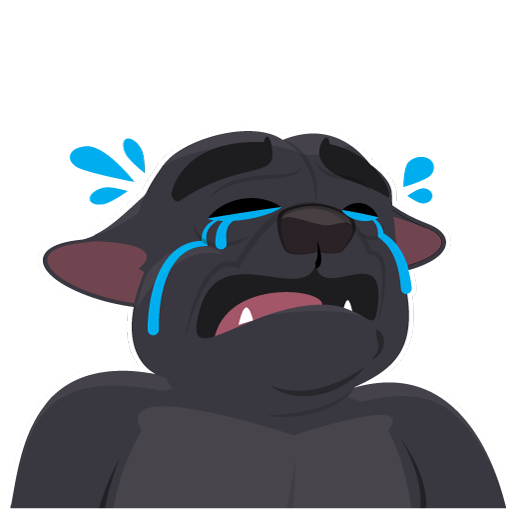
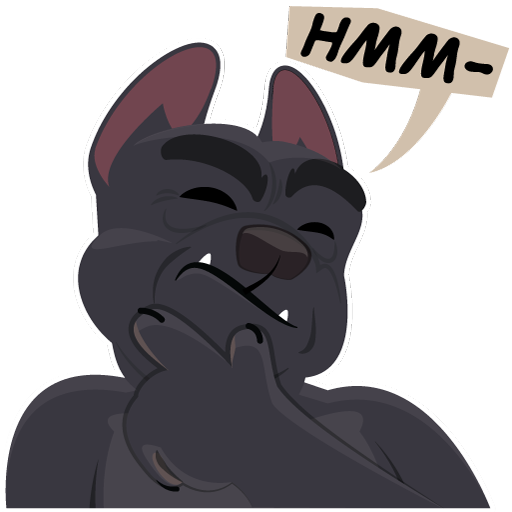
updating

diff --git a/data.js b/data.js
@@ -1,1 +1,1 @@
-{"project": [null,null,[[0,false,true,true,true,true,true,true,true,false],[1,true,false,false,false,false,false,false,false,false]],[["t0",0,false,[],0,0,null,[["Default",5,false,1,0,false,610191307077012,[["images/bd-sheet0.png",155,0,0,250,250,1,0.5,0.5,[],[],1]]]],[],false,false,607439882682930,[],null],["t1",0,false,[],0,0,null,[["Default",5,false,1,0,false,331552217370939,[["images/uianchor-sheet0.png",155,0,0,250,250,1,0,0,[["Imagepoint 1",0.5,0.4359999895095825],["Imagepoint 2",0,1]],[],1]]]],[],false,false,136455658636064,[],null],["t2",0,false,[],1,0,null,[["Default",5,false,1,0,false,177227347367945,[["images/portrait-sheet0.png",568904,1,1,512,512,1,0.5,0.5,[],[-0.3125,-0.3125,0,-0.2519530057907105,0.1972659826278687,-0.197266012430191,0.2011719942092896,0,0.4980469942092896,0.4980469942092896,-0.498046875,0.4980469942092896,-0.3105469942092896,0],0],["images/portrait-sheet0.png",568904,1,1,512,512,1,0.5,0.5,[],[-0.3125,-0.3125,0,-0.2519530057907105,0.1972659826278687,-0.197266012430191,0.2011719942092896,0,0.4980469942092896,0.4980469942092896,-0.498046875,0.4980469942092896,-0.3105469942092896,0],0],["images/portrait-sheet0.png",568904,515,1,512,512,1,0.5,0.5,[],[-0.3125,-0.3125,0,-0.2519530057907105,0.1972659826278687,-0.197266012430191,0.2011719942092896,0,0.4980469942092896,0.4980469942092896,-0.498046875,0.4980469942092896,-0.3105469942092896,0],0],["images/portrait-sheet0.png",568904,1029,1,512,512,1,0.5,0.5,[],[-0.3125,-0.3125,0,-0.2519530057907105,0.1972659826278687,-0.197266012430191,0.2011719942092896,0,0.4980469942092896,0.4980469942092896,-0.498046875,0.4980469942092896,-0.3105469942092896,0],0],["images/portrait-sheet0.png",568904,1,515,512,512,1,0.5,0.5,[],[-0.3125,-0.3125,0,-0.2519530057907105,0.1972659826278687,-0.197266012430191,0.2011719942092896,0,0.4980469942092896,0.4980469942092896,-0.498046875,0.4980469942092896,-0.3105469942092896,0],0],["images/portrait-sheet0.png",568904,515,515,512,512,1,0.5,0.5,[],[-0.3125,-0.3125,0,-0.2519530057907105,0.1972659826278687,-0.197266012430191,0.2011719942092896,0,0.4980469942092896,0.4980469942092896,-0.498046875,0.4980469942092896,-0.3105469942092896,0],0],["images/portrait-sheet0.png",568904,1029,515,512,512,1,0.5,0.5,[],[-0.3125,-0.3125,0,-0.2519530057907105,0.1972659826278687,-0.197266012430191,0.2011719942092896,0,0.4980469942092896,0.4980469942092896,-0.498046875,0.4980469942092896,-0.3105469942092896,0],0],["images/portrait-sheet0.png",568904,1,1029,512,512,1,0.5,0.5,[],[-0.2480469942092896,-0.2480469942092896,0,-0.2617189884185791,0.1425780057907105,-0.1425780057907105,0.2324219942092896,0,0.4863280057907105,0.4863280057907105,-0.490234375,0.4902340173721314,-0.4453125,0],0],["images/portrait-sheet0.png",568904,515,1029,512,512,1,0.5,0.5,[],[-0.2480469942092896,-0.2480469942092896,0,-0.2617189884185791,0.1425780057907105,-0.1425780057907105,0.2324219942092896,0,0.4863280057907105,0.4863280057907105,-0.490234375,0.4902340173721314,-0.4453125,0],0],["images/portrait-sheet0.png",568904,1029,1029,512,512,1,0.5,0.5,[],[-0.2480469942092896,-0.2480469942092896,0,-0.2617189884185791,0.1425780057907105,-0.1425780057907105,0.2324219942092896,0,0.4863280057907105,0.4863280057907105,-0.490234375,0.4902340173721314,-0.4453125,0],0],["images/portrait-sheet1.png",57447,0,0,512,512,1,0.5,0.5,[],[-0.2480469942092896,-0.2480469942092896,0,-0.2617189884185791,0.1425780057907105,-0.1425780057907105,0.2324219942092896,0,0.4863280057907105,0.4863280057907105,-0.490234375,0.4902340173721314,-0.4453125,0],0],["images/portrait-sheet2.png",44817,0,0,512,512,1,0.5,0.5,[],[-0.2480469942092896,-0.2480469942092896,0,-0.2617189884185791,0.1425780057907105,-0.1425780057907105,0.2324219942092896,0,0.4863280057907105,0.4863280057907105,-0.490234375,0.4902340173721314,-0.4453125,0],0]]]],[["Fade",2,628882595319511]],false,false,704079017234861,[],null],["t3",0,false,[],0,0,null,[["Default",5,false,1,0,false,364712639903851,[["images/uianchor2-sheet0.png",155,0,0,250,250,1,0,0,[["Imagepoint 1",0.5,0]],[],1]]]],[],false,false,466833588075506,[],null],["t4",0,false,[],0,0,null,[["Default",5,false,1,0,false,962074919451219,[["images/uianchor3-sheet0.png",155,0,0,250,250,1,0.5,0,[["Imagepoint 1",0.5,0]],[],1]]]],[],false,false,637335594727856,[],null],["t5",0,false,[896240934546725],0,0,null,[["Default",5,false,1,0,false,161025835850227,[["images/portrait-sheet0.png",568904,1,1,512,512,1,0.5,0.5,[],[-0.3125,-0.3125,0,-0.2519530057907105,0.1972659826278687,-0.197266012430191,0.2011719942092896,0,0.4980469942092896,0.4980469942092896,-0.498046875,0.4980469942092896,-0.3105469942092896,0],0],["images/portrait-sheet0.png",568904,1,1,512,512,1,0.5,0.5,[],[-0.3125,-0.3125,0,-0.2519530057907105,0.1972659826278687,-0.197266012430191,0.2011719942092896,0,0.4980469942092896,0.4980469942092896,-0.498046875,0.4980469942092896,-0.3105469942092896,0],0],["images/portrait-sheet0.png",568904,515,1,512,512,1,0.5,0.5,[],[-0.3125,-0.3125,0,-0.2519530057907105,0.1972659826278687,-0.197266012430191,0.2011719942092896,0,0.4980469942092896,0.4980469942092896,-0.498046875,0.4980469942092896,-0.3105469942092896,0],0],["images/portrait-sheet0.png",568904,1029,1,512,512,1,0.5,0.5,[],[-0.3125,-0.3125,0,-0.2519530057907105,0.1972659826278687,-0.197266012430191,0.2011719942092896,0,0.4980469942092896,0.4980469942092896,-0.498046875,0.4980469942092896,-0.3105469942092896,0],0],["images/portrait-sheet0.png",568904,1,515,512,512,1,0.5,0.5,[],[-0.3125,-0.3125,0,-0.2519530057907105,0.1972659826278687,-0.197266012430191,0.2011719942092896,0,0.4980469942092896,0.4980469942092896,-0.498046875,0.4980469942092896,-0.3105469942092896,0],0],["images/portrait-sheet0.png",568904,515,515,512,512,1,0.5,0.5,[],[-0.3125,-0.3125,0,-0.2519530057907105,0.1972659826278687,-0.197266012430191,0.2011719942092896,0,0.4980469942092896,0.4980469942092896,-0.498046875,0.4980469942092896,-0.3105469942092896,0],0],["images/portrait-sheet0.png",568904,1029,515,512,512,1,0.5,0.5,[],[-0.3125,-0.3125,0,-0.2519530057907105,0.1972659826278687,-0.197266012430191,0.2011719942092896,0,0.4980469942092896,0.4980469942092896,-0.498046875,0.4980469942092896,-0.3105469942092896,0],0],["images/portrait-sheet0.png",568904,1,1029,512,512,1,0.5,0.5,[],[-0.2480469942092896,-0.2480469942092896,0,-0.2617189884185791,0.1425780057907105,-0.1425780057907105,0.2324219942092896,0,0.4863280057907105,0.4863280057907105,-0.490234375,0.4902340173721314,-0.4453125,0],0],["images/portrait-sheet0.png",568904,515,1029,512,512,1,0.5,0.5,[],[-0.2480469942092896,-0.2480469942092896,0,-0.2617189884185791,0.1425780057907105,-0.1425780057907105,0.2324219942092896,0,0.4863280057907105,0.4863280057907105,-0.490234375,0.4902340173721314,-0.4453125,0],0],["images/portrait-sheet0.png",568904,1029,1029,512,512,1,0.5,0.5,[],[-0.2480469942092896,-0.2480469942092896,0,-0.2617189884185791,0.1425780057907105,-0.1425780057907105,0.2324219942092896,0,0.4863280057907105,0.4863280057907105,-0.490234375,0.4902340173721314,-0.4453125,0],0],["images/portrait-sheet1.png",57447,0,0,512,512,1,0.5,0.5,[],[-0.2480469942092896,-0.2480469942092896,0,-0.2617189884185791,0.1425780057907105,-0.1425780057907105,0.2324219942092896,0,0.4863280057907105,0.4863280057907105,-0.490234375,0.4902340173721314,-0.4453125,0],0],["images/portrait-sheet2.png",44817,0,0,512,512,1,0.5,0.5,[],[-0.2480469942092896,-0.2480469942092896,0,-0.2617189884185791,0.1425780057907105,-0.1425780057907105,0.2324219942092896,0,0.4863280057907105,0.4863280057907105,-0.490234375,0.4902340173721314,-0.4453125,0],0]]]],[],false,false,754398503829293,[],null],["t6",0,false,[894861248078165],1,0,null,[["Default",5,false,1,0,false,823223339300037,[["images/uicursor-sheet0.png",98,0,0,64,64,1,0.5,0.5,[],[],1]]]],[["Fade",2,988903004482084]],false,false,658326794191089,[],null],["t7",1,false,[],0,0,null,null,[],false,false,941437527777681,[],null,[1]]],[],[["Layout 1",960,1280,false,"main",8873350371196689,[["bd",0,8722530541249526,true,[255,255,255],false,1,1,1,false,false,1,0,0,[[[239.5,321,0,491,646,0,0,1,0.5,0.5,0,0,[]],0,0,[],[],[0,"Default",0,1]]],[]],["invis",1,925002888922928,false,[255,255,255],true,1,1,1,false,false,1,0,0,[[[-7,-4,0,491,446,0,0,1,0,0,0,0,[]],1,1,[],[],[0,"Default",0,1]],[[-7,438,0,492,211,0,0,1,0,0,0,0,[]],3,3,[],[],[0,"Default",0,1]],[[242,546.5,0,430,143,0,0,1,0.5,0,0,0,[]],4,4,[],[],[0,"Default",0,1]]],[]],["ui",2,753174105871452,true,[255,255,255],true,1,1,1,false,false,1,0,0,[[[27,476,0,55.96427536010742,55.96427536010742,0,0,1,0.5,0.5,0,0,[]],5,5,[[0]],[],[0,"Default",0,1]],[[406,75,0,64,64,0,0,1,0.5,0.5,0,0,[]],6,6,[[0]],[[1,1.75,2.25,0.5,0]],[0,"Default",0,1]]],[]],["portrait",3,709641025609961,true,[255,255,255],true,1,1,1,false,false,1,0,0,[[[250,234,0,361.3308715820313,361.3308715820313,0,0,1,0.5,0.5,0,0,[]],2,2,[],[[1,1.75,2.25,0.5,0]],[0,"Default",0,1]]],[]]],[],[]]],[["main",[[2,"setup",false]]],["setup",[[0,null,false,null,541106952802135,[[-1,3,null,0,false,false,false,966799947983312,false]],[[0,4,null,499866119357388,false,[[0,[19,5]],[0,[19,6]]]],[0,7,null,535297945787673,false,[[0,[6,[19,5],[0,2]]],[0,[6,[19,6],[0,2]]]]],[1,4,null,129235748644494,false,[[0,[0,0]],[0,[0,0]]]],[1,7,null,742060842087618,false,[[0,[6,[19,5],[0,2]]],[0,[6,[19,5],[1,1.75]]]]],[2,8,null,592653318588020,false,[[4,1],[7,[0,1]]]],[2,7,null,509747050539062,false,[[0,[6,[20,1,9,false,null],[1,0.75]]],[0,[6,[20,1,9,false,null],[1,0.75]]]]],[3,8,null,359685072491997,false,[[4,1],[7,[0,2]]]],[3,7,null,220875140523626,false,[[0,[6,[19,5],[0,2]]],[0,[5,[6,[19,6],[0,2]],[20,3,10,false,null]]]]],[4,8,null,501150925826838,false,[[4,3],[7,[0,1]]]],[4,7,null,249089747631762,false,[[0,[5,[20,2,9,false,null],[0,64]]],[0,[5,[20,3,11,false,null],[20,5,11,false,null]]]]],[5,8,null,540914977195265,false,[[4,4],[7,[0,1]]]],[5,7,null,876629516600975,false,[[0,[0,64]],[0,[0,64]]]]]],[0,null,false,null,147573630573331,[[2,12,null,1,false,false,false,679433562048318,false]],[[2,13,null,433796941289999,false]]],[0,null,false,null,543381205895423,[[5,12,null,1,false,false,false,549743225344576,false]],[[5,13,null,402466579876076,false],[5,14,null,529901581419232,false,[[10,0],[7,[20,5,15,false,null]]]],[5,16,null,976467233322704,false,[[0,[21,5,false,null,0]]]]]],[0,null,false,null,782518315605374,[[5,17,null,0,false,false,false,109601180420512,false,[[10,0],[8,4],[7,[0,0]]]],[5,17,null,0,false,false,false,325858893542731,false,[[10,0],[8,2],[7,[0,5]]]]],[[5,4,null,106855771684154,false,[[0,[4,[5,[19,5],[7,[20,4,9,false,null],[0,2]]],[6,[7,[20,4,9,false,null],[0,3]],[5,[21,5,false,null,0],[0,1]]]]],[0,[20,4,10,false,null]]]]]],[0,null,false,null,349414282879000,[[5,17,null,0,false,false,false,634206761439577,false,[[10,0],[8,5],[7,[0,5]]]],[5,17,null,0,false,false,false,670618701716935,false,[[10,0],[8,2],[7,[0,9]]]]],[[5,4,null,748360881631113,false,[[0,[4,[5,[19,5],[7,[20,4,9,false,null],[0,2]]],[6,[7,[20,4,9,false,null],[0,3]],[5,[21,5,false,null,0],[0,5]]]]],[0,[4,[20,4,10,false,null],[7,[20,4,11,false,null],[0,2]]]]]]]],[0,null,false,null,106737869623009,[[5,17,null,0,false,false,false,257313861769180,false,[[10,0],[8,5],[7,[0,9]]]],[5,17,null,0,false,false,false,283059562972466,false,[[10,0],[8,2],[7,[0,12]]]]],[[5,4,null,258609246867363,false,[[0,[4,[5,[19,5],[7,[20,4,9,false,null],[0,2]]],[6,[7,[20,4,9,false,null],[0,3]],[5,[21,5,false,null,0],[0,9]]]]],[0,[4,[20,4,10,false,null],[20,4,11,false,null]]]]]]],[0,null,false,null,415594605499187,[[-1,18,null,0,false,false,false,664429856917485,false,[[7,[20,5,15,false,null]],[8,2],[7,[5,[20,5,19,false,null],[0,1]]]]]],[[4,20,null,931917993973176,false,[[4,5],[5,[2,"ui"]],[7,[0,0]]]]]],[0,null,false,null,994712454219335,[[6,12,null,1,false,false,false,832582591059159,false]],[[6,21,null,155925168909340,false]]],[0,null,false,null,769460452913622,[[5,17,null,0,false,false,false,816526331924188,false,[[10,0],[8,0],[7,[21,6,false,null,0]]]]],[[6,8,null,122805860015357,false,[[4,5],[7,[0,0]]]],[5,22,null,824792045823096,false,[[0,[0,100]]]]]],[0,null,false,null,614801294364553,[[7,23,null,0,false,false,false,214276476350320,false]],[[2,22,null,526023070903470,false,[[0,[0,100]]]],[6,22,null,343843758983966,false,[[0,[0,100]]]],[2,24,"Fade",638967392035242,false,[[0,[0,0]]]],[6,24,"Fade",201653842612455,false,[[0,[0,0]]]],[6,25,"Fade",317695907117050,false],[2,25,"Fade",735366814983700,false]],[[0,null,false,null,561798716305882,[[7,26,null,0,false,false,false,957307544558795,false,[[4,5]]]],[[6,8,null,241939085348143,false,[[4,5],[7,[0,0]]]],[6,7,null,986052629188530,false,[[0,[6,[20,5,9,false,null],[1,1.3]]],[0,[6,[20,5,11,false,null],[1,1.3]]]]],[6,14,null,683782638114448,false,[[10,0],[7,[21,5,false,null,0]]]],[2,16,null,389983179736904,false,[[0,[21,5,false,null,0]]]]]]]],[0,null,false,null,775506175745899,[[7,23,null,0,false,true,false,920425309721643,false]],[[6,7,null,293245262108725,false,[[0,[6,[20,5,9,false,null],[1,1.15]]],[0,[6,[20,5,11,false,null],[1,1.15]]]]],[2,24,"Fade",421748437055413,false,[[0,[1,1.75]]]],[6,24,"Fade",937271752674944,false,[[0,[1,1.75]]]],[6,25,"Fade",726766468638479,false],[2,25,"Fade",453423123984489,false]],[[0,null,false,null,931256679118985,[[2,27,null,0,false,false,false,564227328752124,false,[[8,0],[0,[0,0]]]]],[],[[0,null,false,null,656851954869968,[[6,27,null,0,false,false,false,704455856667004,false,[[8,0],[0,[0,0]]]],[-1,28,null,0,false,false,false,682249770378274,false]],[],[[0,null,false,null,649636179005526,[[6,17,null,0,false,false,false,752159394346939,false,[[10,0],[8,2],[7,[20,2,19,false,null]]]]],[[6,14,null,134766711122958,false,[[10,0],[7,[4,[20,2,29,false,null],[0,1]]]]],[2,16,null,913520352387375,false,[[0,[21,6,false,null,0]]]]]],[0,null,false,null,803106985083559,[[6,17,null,0,false,false,false,375729371424076,false,[[10,0],[8,5],[7,[20,2,19,false,null]]]]],[[6,14,null,419214524212755,false,[[10,0],[7,[0,1]]]],[2,16,null,824304574277003,false,[[0,[21,6,false,null,0]]]]]],[0,null,false,null,635256522781680,[[6,17,null,0,false,false,false,278502115365276,false,[[10,0],[8,0],[7,[20,2,29,false,null]]]]],[]]]]]]]]]]],[],"media/",false,480,640,4,true,true,true,"1.0.0.0",true,false,0,1,8,false,true,1,true,"New project",0,[]]}
+{"project": [null,null,[[0,false,true,true,true,true,true,true,true,false],[1,true,false,false,false,false,false,false,false,false]],[["t0",0,false,[],0,0,null,[["Default",5,false,1,0,false,610191307077012,[["images/bd-sheet0.png",155,0,0,250,250,1,0.5,0.5,[],[],1]]]],[],false,false,607439882682930,[],null],["t1",0,false,[],0,0,null,[["Default",5,false,1,0,false,331552217370939,[["images/uianchor-sheet0.png",155,0,0,250,250,1,0,0,[["Imagepoint 1",0.5,0.4359999895095825],["Imagepoint 2",0,1]],[],1]]]],[],false,false,136455658636064,[],null],["t2",0,false,[],1,0,null,[["Default",5,false,1,0,false,177227347367945,[["images/portrait-sheet0.png",568852,1,1,512,512,1,0.5,0.5,[],[-0.3125,-0.3125,0,-0.2519530057907105,0.1972659826278687,-0.197266012430191,0.2011719942092896,0,0.4980469942092896,0.4980469942092896,-0.498046875,0.4980469942092896,-0.3105469942092896,0],0],["images/portrait-sheet0.png",568852,1,1,512,512,1,0.5,0.5,[],[-0.3125,-0.3125,0,-0.2519530057907105,0.1972659826278687,-0.197266012430191,0.2011719942092896,0,0.4980469942092896,0.4980469942092896,-0.498046875,0.4980469942092896,-0.3105469942092896,0],0],["images/portrait-sheet0.png",568852,515,1,512,512,1,0.5,0.5,[],[-0.3125,-0.3125,0,-0.2519530057907105,0.1972659826278687,-0.197266012430191,0.2011719942092896,0,0.4980469942092896,0.4980469942092896,-0.498046875,0.4980469942092896,-0.3105469942092896,0],0],["images/portrait-sheet0.png",568852,1029,1,512,512,1,0.5,0.5,[],[-0.3125,-0.3125,0,-0.2519530057907105,0.1972659826278687,-0.197266012430191,0.2011719942092896,0,0.4980469942092896,0.4980469942092896,-0.498046875,0.4980469942092896,-0.3105469942092896,0],0],["images/portrait-sheet0.png",568852,1,515,512,512,1,0.5,0.5,[],[-0.3125,-0.3125,0,-0.2519530057907105,0.1972659826278687,-0.197266012430191,0.2011719942092896,0,0.4980469942092896,0.4980469942092896,-0.498046875,0.4980469942092896,-0.3105469942092896,0],0],["images/portrait-sheet0.png",568852,515,515,512,512,1,0.5,0.5,[],[-0.3125,-0.3125,0,-0.2519530057907105,0.1972659826278687,-0.197266012430191,0.2011719942092896,0,0.4980469942092896,0.4980469942092896,-0.498046875,0.4980469942092896,-0.3105469942092896,0],0],["images/portrait-sheet0.png",568852,1029,515,512,512,1,0.5,0.5,[],[-0.3125,-0.3125,0,-0.2519530057907105,0.1972659826278687,-0.197266012430191,0.2011719942092896,0,0.4980469942092896,0.4980469942092896,-0.498046875,0.4980469942092896,-0.3105469942092896,0],0],["images/portrait-sheet0.png",568852,1,1029,512,512,1,0.5,0.5,[],[-0.2480469942092896,-0.2480469942092896,0,-0.2617189884185791,0.1425780057907105,-0.1425780057907105,0.2324219942092896,0,0.4863280057907105,0.4863280057907105,-0.490234375,0.4902340173721314,-0.4453125,0],0],["images/portrait-sheet0.png",568852,515,1029,512,512,1,0.5,0.5,[],[-0.2480469942092896,-0.2480469942092896,0,-0.2617189884185791,0.1425780057907105,-0.1425780057907105,0.2324219942092896,0,0.4863280057907105,0.4863280057907105,-0.490234375,0.4902340173721314,-0.4453125,0],0],["images/portrait-sheet0.png",568852,1029,1029,512,512,1,0.5,0.5,[],[-0.2480469942092896,-0.2480469942092896,0,-0.2617189884185791,0.1425780057907105,-0.1425780057907105,0.2324219942092896,0,0.4863280057907105,0.4863280057907105,-0.490234375,0.4902340173721314,-0.4453125,0],0],["images/portrait-sheet1.png",57447,0,0,512,512,1,0.5,0.5,[],[-0.2480469942092896,-0.2480469942092896,0,-0.2617189884185791,0.1425780057907105,-0.1425780057907105,0.2324219942092896,0,0.4863280057907105,0.4863280057907105,-0.490234375,0.4902340173721314,-0.4453125,0],0],["images/portrait-sheet2.png",58191,0,0,512,512,1,0.5,0.5,[],[-0.2480469942092896,-0.2480469942092896,0,-0.2617189884185791,0.1425780057907105,-0.1425780057907105,0.2324219942092896,0,0.4863280057907105,0.4863280057907105,-0.490234375,0.4902340173721314,-0.4453125,0],0],["images/portrait-sheet3.png",44817,0,0,512,512,1,0.5,0.5,[],[-0.2480469942092896,-0.2480469942092896,0,-0.2617189884185791,0.1425780057907105,-0.1425780057907105,0.2324219942092896,0,0.4863280057907105,0.4863280057907105,-0.490234375,0.4902340173721314,-0.4453125,0],0]]]],[["Fade",2,628882595319511]],false,false,704079017234861,[],null],["t3",0,false,[],0,0,null,[["Default",5,false,1,0,false,364712639903851,[["images/uianchor2-sheet0.png",155,0,0,250,250,1,0,0,[["Imagepoint 1",0.5,0]],[],1]]]],[],false,false,466833588075506,[],null],["t4",0,false,[],0,0,null,[["Default",5,false,1,0,false,962074919451219,[["images/uianchor3-sheet0.png",155,0,0,250,250,1,0.5,0,[["Imagepoint 1",0.5,0]],[],1]]]],[],false,false,637335594727856,[],null],["t5",0,false,[896240934546725],0,0,null,[["Default",5,false,1,0,false,161025835850227,[["images/portrait-sheet0.png",568852,1,1,512,512,1,0.5,0.5,[],[-0.3125,-0.3125,0,-0.2519530057907105,0.1972659826278687,-0.197266012430191,0.2011719942092896,0,0.4980469942092896,0.4980469942092896,-0.498046875,0.4980469942092896,-0.3105469942092896,0],0],["images/portrait-sheet0.png",568852,1,1,512,512,1,0.5,0.5,[],[-0.3125,-0.3125,0,-0.2519530057907105,0.1972659826278687,-0.197266012430191,0.2011719942092896,0,0.4980469942092896,0.4980469942092896,-0.498046875,0.4980469942092896,-0.3105469942092896,0],0],["images/portrait-sheet0.png",568852,515,1,512,512,1,0.5,0.5,[],[-0.3125,-0.3125,0,-0.2519530057907105,0.1972659826278687,-0.197266012430191,0.2011719942092896,0,0.4980469942092896,0.4980469942092896,-0.498046875,0.4980469942092896,-0.3105469942092896,0],0],["images/portrait-sheet0.png",568852,1029,1,512,512,1,0.5,0.5,[],[-0.3125,-0.3125,0,-0.2519530057907105,0.1972659826278687,-0.197266012430191,0.2011719942092896,0,0.4980469942092896,0.4980469942092896,-0.498046875,0.4980469942092896,-0.3105469942092896,0],0],["images/portrait-sheet0.png",568852,1,515,512,512,1,0.5,0.5,[],[-0.3125,-0.3125,0,-0.2519530057907105,0.1972659826278687,-0.197266012430191,0.2011719942092896,0,0.4980469942092896,0.4980469942092896,-0.498046875,0.4980469942092896,-0.3105469942092896,0],0],["images/portrait-sheet0.png",568852,515,515,512,512,1,0.5,0.5,[],[-0.3125,-0.3125,0,-0.2519530057907105,0.1972659826278687,-0.197266012430191,0.2011719942092896,0,0.4980469942092896,0.4980469942092896,-0.498046875,0.4980469942092896,-0.3105469942092896,0],0],["images/portrait-sheet0.png",568852,1029,515,512,512,1,0.5,0.5,[],[-0.3125,-0.3125,0,-0.2519530057907105,0.1972659826278687,-0.197266012430191,0.2011719942092896,0,0.4980469942092896,0.4980469942092896,-0.498046875,0.4980469942092896,-0.3105469942092896,0],0],["images/portrait-sheet0.png",568852,1,1029,512,512,1,0.5,0.5,[],[-0.2480469942092896,-0.2480469942092896,0,-0.2617189884185791,0.1425780057907105,-0.1425780057907105,0.2324219942092896,0,0.4863280057907105,0.4863280057907105,-0.490234375,0.4902340173721314,-0.4453125,0],0],["images/portrait-sheet0.png",568852,515,1029,512,512,1,0.5,0.5,[],[-0.2480469942092896,-0.2480469942092896,0,-0.2617189884185791,0.1425780057907105,-0.1425780057907105,0.2324219942092896,0,0.4863280057907105,0.4863280057907105,-0.490234375,0.4902340173721314,-0.4453125,0],0],["images/portrait-sheet0.png",568852,1029,1029,512,512,1,0.5,0.5,[],[-0.2480469942092896,-0.2480469942092896,0,-0.2617189884185791,0.1425780057907105,-0.1425780057907105,0.2324219942092896,0,0.4863280057907105,0.4863280057907105,-0.490234375,0.4902340173721314,-0.4453125,0],0],["images/portrait-sheet1.png",57447,0,0,512,512,1,0.5,0.5,[],[-0.2480469942092896,-0.2480469942092896,0,-0.2617189884185791,0.1425780057907105,-0.1425780057907105,0.2324219942092896,0,0.4863280057907105,0.4863280057907105,-0.490234375,0.4902340173721314,-0.4453125,0],0],["images/portrait-sheet2.png",58191,0,0,512,512,1,0.5,0.5,[],[-0.2480469942092896,-0.2480469942092896,0,-0.2617189884185791,0.1425780057907105,-0.1425780057907105,0.2324219942092896,0,0.4863280057907105,0.4863280057907105,-0.490234375,0.4902340173721314,-0.4453125,0],0],["images/portrait-sheet3.png",44817,0,0,512,512,1,0.5,0.5,[],[-0.2480469942092896,-0.2480469942092896,0,-0.2617189884185791,0.1425780057907105,-0.1425780057907105,0.2324219942092896,0,0.4863280057907105,0.4863280057907105,-0.490234375,0.4902340173721314,-0.4453125,0],0]]]],[],false,false,754398503829293,[],null],["t6",0,false,[894861248078165],1,0,null,[["Default",5,false,1,0,false,823223339300037,[["images/uicursor-sheet0.png",98,0,0,64,64,1,0.5,0.5,[],[],1]]]],[["Fade",2,988903004482084]],false,false,658326794191089,[],null],["t7",1,false,[],0,0,null,null,[],false,false,941437527777681,[],null,[1]]],[],[["Layout 1",960,1280,false,"main",8873350371196689,[["bd",0,8722530541249526,true,[255,255,255],false,1,1,1,false,false,1,0,0,[[[239.5,321,0,491,646,0,0,1,0.5,0.5,0,0,[]],0,0,[],[],[0,"Default",0,1]]],[]],["invis",1,925002888922928,false,[255,255,255],true,1,1,1,false,false,1,0,0,[[[-7,-4,0,491,446,0,0,1,0,0,0,0,[]],1,1,[],[],[0,"Default",0,1]],[[-7,438,0,492,211,0,0,1,0,0,0,0,[]],3,3,[],[],[0,"Default",0,1]],[[242,546.5,0,430,143,0,0,1,0.5,0,0,0,[]],4,4,[],[],[0,"Default",0,1]]],[]],["ui",2,753174105871452,true,[255,255,255],true,1,1,1,false,false,1,0,0,[[[27,476,0,55.96427536010742,55.96427536010742,0,0,1,0.5,0.5,0,0,[]],5,5,[[0]],[],[0,"Default",0,1]],[[406,75,0,64,64,0,0,1,0.5,0.5,0,0,[]],6,6,[[0]],[[1,1.75,2.25,0.5,0]],[0,"Default",0,1]]],[]],["portrait",3,709641025609961,true,[255,255,255],true,1,1,1,false,false,1,0,0,[[[250,234,0,361.3308715820313,361.3308715820313,0,0,1,0.5,0.5,0,0,[]],2,2,[],[[1,1.75,2.25,0.5,0]],[0,"Default",0,1]]],[]]],[],[]]],[["main",[[2,"setup",false]]],["setup",[[0,null,false,null,541106952802135,[[-1,3,null,0,false,false,false,966799947983312,false]],[[0,4,null,499866119357388,false,[[0,[19,5]],[0,[19,6]]]],[0,7,null,535297945787673,false,[[0,[6,[19,5],[0,2]]],[0,[6,[19,6],[0,2]]]]],[1,4,null,129235748644494,false,[[0,[0,0]],[0,[0,0]]]],[1,7,null,742060842087618,false,[[0,[6,[19,5],[0,2]]],[0,[6,[19,5],[1,1.75]]]]],[2,8,null,592653318588020,false,[[4,1],[7,[0,1]]]],[2,7,null,509747050539062,false,[[0,[6,[20,1,9,false,null],[1,0.75]]],[0,[6,[20,1,9,false,null],[1,0.75]]]]],[3,8,null,359685072491997,false,[[4,1],[7,[0,2]]]],[3,7,null,220875140523626,false,[[0,[6,[19,5],[0,2]]],[0,[5,[6,[19,6],[0,2]],[20,3,10,false,null]]]]],[4,8,null,501150925826838,false,[[4,3],[7,[0,1]]]],[4,7,null,249089747631762,false,[[0,[5,[20,2,9,false,null],[0,64]]],[0,[5,[20,3,11,false,null],[20,5,11,false,null]]]]],[5,8,null,540914977195265,false,[[4,4],[7,[0,1]]]],[5,7,null,876629516600975,false,[[0,[0,64]],[0,[0,64]]]]]],[0,null,false,null,147573630573331,[[2,12,null,1,false,false,false,679433562048318,false]],[[2,13,null,433796941289999,false]]],[0,null,false,null,543381205895423,[[5,12,null,1,false,false,false,549743225344576,false]],[[5,13,null,402466579876076,false],[5,14,null,529901581419232,false,[[10,0],[7,[20,5,15,false,null]]]],[5,16,null,976467233322704,false,[[0,[21,5,false,null,0]]]]]],[0,null,false,null,782518315605374,[[5,17,null,0,false,false,false,109601180420512,false,[[10,0],[8,4],[7,[0,0]]]],[5,17,null,0,false,false,false,325858893542731,false,[[10,0],[8,2],[7,[0,5]]]]],[[5,4,null,106855771684154,false,[[0,[4,[5,[19,5],[7,[20,4,9,false,null],[0,2]]],[6,[7,[20,4,9,false,null],[0,3]],[5,[21,5,false,null,0],[0,1]]]]],[0,[20,4,10,false,null]]]]]],[0,null,false,null,349414282879000,[[5,17,null,0,false,false,false,634206761439577,false,[[10,0],[8,5],[7,[0,5]]]],[5,17,null,0,false,false,false,670618701716935,false,[[10,0],[8,2],[7,[0,9]]]]],[[5,4,null,748360881631113,false,[[0,[4,[5,[19,5],[7,[20,4,9,false,null],[0,2]]],[6,[7,[20,4,9,false,null],[0,3]],[5,[21,5,false,null,0],[0,5]]]]],[0,[4,[20,4,10,false,null],[7,[20,4,11,false,null],[0,2]]]]]]]],[0,null,false,null,106737869623009,[[5,17,null,0,false,false,false,257313861769180,false,[[10,0],[8,5],[7,[0,9]]]],[5,17,null,0,false,false,false,283059562972466,false,[[10,0],[8,2],[7,[0,13]]]]],[[5,4,null,258609246867363,false,[[0,[4,[5,[19,5],[7,[20,4,9,false,null],[0,2]]],[6,[7,[20,4,9,false,null],[0,3]],[5,[21,5,false,null,0],[0,9]]]]],[0,[4,[20,4,10,false,null],[20,4,11,false,null]]]]]]],[0,null,false,null,415594605499187,[[-1,18,null,0,false,false,false,664429856917485,false,[[7,[20,5,15,false,null]],[8,2],[7,[5,[20,5,19,false,null],[0,1]]]]]],[[4,20,null,931917993973176,false,[[4,5],[5,[2,"ui"]],[7,[0,0]]]]]],[0,null,false,null,994712454219335,[[6,12,null,1,false,false,false,832582591059159,false]],[[6,21,null,155925168909340,false]]],[0,null,false,null,769460452913622,[[5,17,null,0,false,false,false,816526331924188,false,[[10,0],[8,0],[7,[21,6,false,null,0]]]]],[[6,8,null,122805860015357,false,[[4,5],[7,[0,0]]]],[5,22,null,824792045823096,false,[[0,[0,100]]]]]],[0,null,false,null,614801294364553,[[7,23,null,0,false,false,false,214276476350320,false]],[[2,22,null,526023070903470,false,[[0,[0,100]]]],[6,22,null,343843758983966,false,[[0,[0,100]]]],[2,24,"Fade",638967392035242,false,[[0,[0,0]]]],[6,24,"Fade",201653842612455,false,[[0,[0,0]]]],[6,25,"Fade",317695907117050,false],[2,25,"Fade",735366814983700,false]],[[0,null,false,null,561798716305882,[[7,26,null,0,false,false,false,957307544558795,false,[[4,5]]]],[[6,8,null,241939085348143,false,[[4,5],[7,[0,0]]]],[6,7,null,986052629188530,false,[[0,[6,[20,5,9,false,null],[1,1.3]]],[0,[6,[20,5,11,false,null],[1,1.3]]]]],[6,14,null,683782638114448,false,[[10,0],[7,[21,5,false,null,0]]]],[2,16,null,389983179736904,false,[[0,[21,5,false,null,0]]]]]]]],[0,null,false,null,775506175745899,[[7,23,null,0,false,true,false,920425309721643,false]],[[6,7,null,293245262108725,false,[[0,[6,[20,5,9,false,null],[1,1.15]]],[0,[6,[20,5,11,false,null],[1,1.15]]]]],[2,24,"Fade",421748437055413,false,[[0,[1,1.75]]]],[6,24,"Fade",937271752674944,false,[[0,[1,1.75]]]],[6,25,"Fade",726766468638479,false],[2,25,"Fade",453423123984489,false]],[[0,null,false,null,931256679118985,[[2,27,null,0,false,false,false,564227328752124,false,[[8,0],[0,[0,0]]]]],[],[[0,null,false,null,656851954869968,[[6,27,null,0,false,false,false,704455856667004,false,[[8,0],[0,[0,0]]]],[-1,28,null,0,false,false,false,682249770378274,false]],[],[[0,null,false,null,649636179005526,[[6,17,null,0,false,false,false,752159394346939,false,[[10,0],[8,2],[7,[20,2,19,false,null]]]]],[[6,14,null,134766711122958,false,[[10,0],[7,[4,[20,2,29,false,null],[0,1]]]]],[2,16,null,913520352387375,false,[[0,[21,6,false,null,0]]]]]],[0,null,false,null,803106985083559,[[6,17,null,0,false,false,false,375729371424076,false,[[10,0],[8,5],[7,[20,2,19,false,null]]]]],[[6,14,null,419214524212755,false,[[10,0],[7,[0,1]]]],[2,16,null,824304574277003,false,[[0,[21,6,false,null,0]]]]]],[0,null,false,null,635256522781680,[[6,17,null,0,false,false,false,278502115365276,false,[[10,0],[8,0],[7,[20,2,29,false,null]]]]],[]]]]]]]]]]],[],"media/",false,480,640,4,true,true,true,"1.0.0.0",true,false,0,1,8,false,true,1,true,"New project",0,[]]}

diff --git a/offline.js b/offline.js
@@ -1,5 +1,5 @@
 {
-	"version": 1561085987,
+	"version": 1563027790,
 	"fileList": [
 		"data.js",
 		"c2runtime.js",
@@ -10,6 +10,7 @@
 		"images/portrait-sheet0.png",
 		"images/portrait-sheet1.png",
 		"images/portrait-sheet2.png",
+		"images/portrait-sheet3.png",
 		"images/uianchor2-sheet0.png",
 		"images/uianchor3-sheet0.png",
 		"images/uicursor-sheet0.png",
